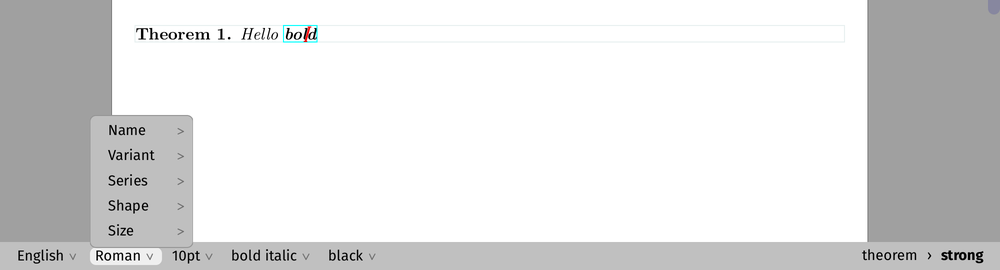
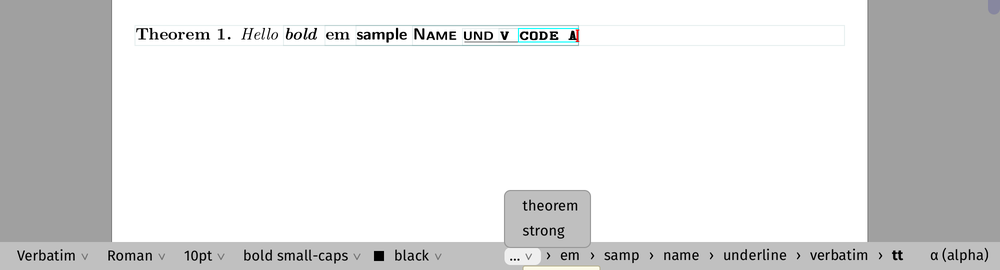
Vue interactive status bar: the character before the cursor, a colour swatch, a right click on a tag opens its Focus menu, the outer tags fold into a menu
(cherry picked from commit 6fe4a85085; without the browser test driver)

Changed region(s): [[0.0, 0.4148, 0.434, 1.0], [0.496, 0.6815, 0.992, 1.0], [0.279, 0.0889, 0.589, 0.1778]]

diff --git a/src/src/Plugins/Vue/vue_widget.cpp b/src/src/Plugins/Vue/vue_widget.cpp
@@ -136,6 +136,32 @@ static const float menu_round= 1.5f;
 // layout_pull_button)
 static bool in_footer= false;
 
+// The context menu of the editor (texmacs-popup-menu, the Focus menu) at a
+// point of the screen (SI, y upwards as for set_position): a right click
+// on a tag of the interactive footer, once the tag is selected (the
+// command of the tag runs first). One at a time: a new one replaces the
+// last, as the popup of the editor (edit_interface_rep::mouse_adjust)
+static widget footer_popup_wid;
+
+class footer_popup_command_rep : public command_rep {
+  SI x, y;
+public:
+  footer_popup_command_rep (SI x2, SI y2) : x (x2), y (y2) {}
+  void apply () {
+    if (!is_nil (footer_popup_wid)) {
+      set_visibility (footer_popup_wid, false);
+      destroy_window_widget (footer_popup_wid);
+      footer_popup_wid= widget ();
+    }
+    widget menu= make_menu_widget (eval ("'(vertical (link texmacs-popup-menu))"));
+    footer_popup_wid= popup_window_widget (popup_widget (menu), "Popup menu");
+    set_position (footer_popup_wid, x, y);
+    set_visibility (footer_popup_wid, true);
+  }
+  void apply (object arg) { (void) arg; apply (); }
+  tm_ostream& print (tm_ostream& out) { return out << "<footer_popup_command>"; }
+};
+
 /******************************************************************************
 * Themes
 *
@@ -2687,6 +2713,18 @@ vue_ui_rep::do_layout () {
       if (DEBUG_VUE_WIDGETS) debug_widgets << "Click!! " << id << LF;
       cmd_list= list(d.cmd, cmd_list);
     }
+    else if (sig.clicked == 3 && in_footer && current_window != NULL) {
+      // a tag of the interactive footer: selected, then its context menu
+      // at the pointer (the position of the window and the pointer in
+      // points; mouse_x, mouse_y are layout pixels)
+      cancel_popup= true;
+      SI wx, wy;
+      current_window->get_position (wx, wy);
+      SI x= wx + (SI) (mouse_x * PIXEL / retina_factor);
+      SI y= wy - (SI) (mouse_y * PIXEL / retina_factor);
+      cmd_list= list (d.cmd, cmd_list);
+      cmd_list= list (command (tm_new<footer_popup_command_rep> (x, y)), cmd_list);
+    }
     return;
   }
   if (type == "pulldown_button" || type == "pullright_button") {
@@ -4736,6 +4774,7 @@ class vue_texmacs_widget_rep : public vue_widget_rep {
   bool footer_menus;
   object footer_env_menu, footer_path_menu;
   vue_widget footer_env, footer_path;
+  float footer_room; // the width of the tags in the last layout, points
   void update_footer_menus ();
 
   // the title of the window and the marker of a document with unsaved
@@ -4786,7 +4825,7 @@ visibility_index (slot s) {
   
 vue_texmacs_widget_rep::vue_texmacs_widget_rep (int _mask, command _quit)
   : vue_widget_rep ("vue_texmacs_widget_rep"), mask (_mask), quit (_quit),
-    win (NULL), interactive_mode (false), footer_menus (false),
+    win (NULL), interactive_mode (false), footer_menus (false), footer_room (0),
     win_title_set (false), win_modified (false), win_modified_set (false)
 {
   // decode mask
@@ -5161,6 +5200,11 @@ footer_menu (object& current, vue_widget& w, string menu) {
 
 void
 vue_texmacs_widget_rep::update_footer_menus () {
+  // the room of the tags, in characters (their width in the last pass,
+  // at some 7 points a character): the outer tags which do not fit are
+  // folded into a menu, see (texmacs menus footer-menu)
+  if (footer_room > 0)
+    call ("footer-set-budget", object (max ((int) (footer_room / 7.0f), 12)));
   footer_menu (footer_env_menu, footer_env,
                "(horizontal (link texmacs-footer-environment))");
   footer_menu (footer_path_menu, footer_path,
@@ -5347,11 +5391,20 @@ void vue_texmacs_widget_rep::do_layout () {
         // (clipped on their left: the innermost tags stay in view)
         in_footer= true;
         footer_env->do_layout ();
-        CLAY_AUTO_ID({
+        // when the tags are wider than their room, they are shifted left by
+        // the difference (as measured in the last pass): the end of the
+        // path, the innermost tags and the character, stays in view
+        Clay_ElementId path_id= CLAY_IDI ("footer_path", id);
+        Clay_ScrollContainerData pd= Clay_GetScrollContainerData (path_id);
+        float shift= 0;
+        if (pd.found && pd.contentDimensions.width > pd.scrollContainerDimensions.width)
+          shift= pd.scrollContainerDimensions.width - pd.contentDimensions.width;
+        if (pd.found) footer_room= pd.scrollContainerDimensions.width / retina_factor;
+        CLAY(path_id, {
           .layout= {
             .sizing= { .width= CLAY_SIZING_GROW(0) },
             .childAlignment= { .x= CLAY_ALIGN_X_RIGHT, .y= CLAY_ALIGN_Y_CENTER }},
-          .clip= { .horizontal= true }})
+          .clip= { .horizontal= true, .childOffset= { shift, 0 } }})
         {
           footer_path->do_layout ();
         }

diff --git a/src/docs/vue-interactive-footer.md b/src/docs/vue-interactive-footer.md
@@ -3,17 +3,27 @@
 An option of the Vue interface: the status bar (the footer of an editor
 window) shows as menus and buttons what it otherwise shows as text.
 
-![The interactive status bar: the properties at the cursor as menus, the tags around it as a path](wasm/interactive-footer.png)
+![The interactive status bar: the properties at the cursor as menus, the tags around it as a path, the outer tags folded into a menu, the character before the cursor](wasm/interactive-footer.png)
 
 * **On the left, the properties of the text at the cursor**, each a menu
   which changes it: the language (text mode), the font (the math font in
   a formula), the size, the series and shape when they are not those of
-  the document, the colour. A small chevron says that each is a menu; the
-  menus open upwards, as there is no room below the footer.
+  the document, the colour (a swatch and its name). A small chevron says
+  that each is a menu; the menus open upwards, as there is no room below
+  the footer.
 * **On the right, the tags around the cursor**, from the outermost to the
   innermost (in bold), separated by `›`. A click on one selects it, as a
-  click in the context tool (Tools › Context tool) does; `document` and
-  `concat`, which say nothing, are left out.
+  click in the context tool (Tools › Context tool) does; a **right click**
+  selects it and opens the context menu of the editor on it, its Focus
+  menu (rename, remove, variants, preferences of the tag...), at the
+  pointer. `document` and `concat`, which say nothing, are left out.
+* **Folding.** The outer tags which do not fit in the room of the path
+  fold into a `…` menu (a click on one of them selects it); the innermost
+  tags stay in view. If the path is still too wide (a narrow window) it is
+  clipped on its left, never on its right.
+* **What is before the cursor**, after the path, as the text footer says
+  it: the character, `start`, `space` (`apply` in a formula), a symbol and
+  its name (`α (alpha)`).
 * **Messages stay text.** While the editor shows a message (the help of
   a LaTeX or hybrid command, a temporary message, the welcome messages at
   start-up) or asks a question in the footer, the status bar is the text
@@ -27,25 +37,20 @@ while the status bar is), the preference `interactive footer` (`on` or
 
 | Where | What |
 |---|---|
-| `TeXmacs/progs/texmacs/menus/footer-menu.scm` | The two menus, `texmacs-footer-environment` and `texmacs-footer-path` (lazy menus, declared in `init-texmacs.scm`). They reuse the menus of the Format menu (`text-font-menu`, `math-font-menu`, `font-size-menu`, `text-font-effects-menu`, `color-menu`) and `text-language-menu`; the tags are those of `upward-context-trees` (`main-menu.scm`, the context tool) |
+| `TeXmacs/progs/texmacs/menus/footer-menu.scm` | The two menus, `texmacs-footer-environment` and `texmacs-footer-path` (lazy menus, declared in `init-texmacs.scm`). They reuse the menus of the Format menu (`text-font-menu`, `math-font-menu`, `font-size-menu`, `text-font-effects-menu`, `color-menu`) and `text-language-menu`; the tags are those of `upward-context-trees` (`main-menu.scm`, the context tool). The folding: `footer-split-path` keeps the innermost tags which fit in `footer-path-budget` characters (the character after the path and the `…` menu count too); the GUI sets the budget (`footer-set-budget`). The character: `footer-char-info`, as `compute_text_footer` |
 | `src/Edit/Interface/edit_footer.cpp` | `edit_interface_rep::set_footer` says, before it sends the footer, whether it is the environment at the cursor or a message: `(footer-environment-notify #t/#f)` |
 | `TeXmacs/progs/kernel/texmacs/tm-dialogue.scm` | `(footer-environment?)`, that state. A function and not an exported variable: an exported variable is a copy of the binding of the module, which a `set!` in the module does not change |
-| `src/Plugins/Vue/vue_widget.cpp`, `vue_texmacs_widget_rep` | At `SLOT_LEFT_FOOTER` (sent first) it reads the preference and `(footer-environment?)`; at `SLOT_RIGHT_FOOTER` it expands the two menus and rebuilds the widget of each only when its expansion changed (`update_footer_menus`, as `tm_window_rep::get_menu_widget` does for the tool bars). The footer then lays out the environment menu on the left and the path, right-aligned and clipped on its left, on the right |
-| `vue_widget.cpp`, `in_footer` | Set while the footer is laid out: the buttons are flatter (the footer is lower than the tool bars) and the pull-down buttons get a chevron (`layout_arrow`) |
+| `src/Plugins/Vue/vue_widget.cpp`, `vue_texmacs_widget_rep` | At `SLOT_LEFT_FOOTER` (sent first) it reads the preference and `(footer-environment?)`; at `SLOT_RIGHT_FOOTER` it expands the two menus and rebuilds the widget of each only when its expansion changed (`update_footer_menus`, as `tm_window_rep::get_menu_widget` does for the tool bars). The footer then lays out the environment menu on the left and the path on the right, right-aligned; when the path is wider than its room it is shifted left by the difference measured in the last pass, so that its end stays in view. The width of the path in the last layout (`footer_room`, points, at some 7 points a character) is the budget given to Scheme before the menus are expanded |
+| `vue_widget.cpp`, `in_footer` | Set while the footer is laid out: the buttons are flatter (the footer is lower than the tool bars), the pull-down buttons get a chevron (`layout_arrow`), and a right click on a button (a tag) runs its command, then `footer_popup_command_rep`, which opens `texmacs-popup-menu` (the Focus menu of the selection) in a popup window at the pointer, as `edit_interface_rep::mouse_adjust` does for a right click in the document |
+| `misc/wasm/browser-run.mjs` | `rclick x y`, a right click, for the tests |
 
 The only change outside Vue and the Scheme menus is the notification in
 `set_footer`, which the other interfaces ignore.
 
 ## Possible improvements
 
-* **More of the right footer.** The text footer ends with what is at the
-  cursor (the character, `space`, the argument of a macro...), which the
-  path leaves out; it could follow the path, as plain text.
-* **A colour swatch** next to (or instead of) the name of the colour, and
-  the font name in its own face.
-* **A menu per tag.** A right click (or a chevron) on a tag of the path
-  could open the Focus menu of that tag (`focus-menu` on that tree):
-  rename, remove, the variants, the tag's own properties.
+* **The font name in its own face**, and the swatch of a pattern or a
+  gradient (the swatch is a plain colour).
 * **Hover feedback in the document.** Hovering over a tag of the path
   could outline it in the document (as the focus rectangle does), so that
   it is clear what a click selects.
@@ -55,8 +60,11 @@ The only change outside Vue and the Scheme menus is the notification in
 * **Mathematics and programs.** In a formula the left side shows `Math`
   and the math font; the math font size, the math style (display or
   inline) and the program language of a session could be menus too.
-* **Density.** A long path is clipped on its left (the innermost tags stay
-  in view); the outer tags could fold into an ellipsis menu instead.
+* **The context menu** is placed at the pointer and kept in the window
+  (in the browser) or on the screen (desktop): near the bottom of a
+  desktop window it hangs below the footer; it could open upwards as the
+  menus of the footer do. The folding budget is an estimate (7 points a
+  character); measuring the names would be exact.
 * **Other interfaces.** Nothing in the menus is Vue specific: Qt could
   show them as well, through a slot for the footer (the editor would send
   the widget, as it sends the tool bars) instead of the reading of
